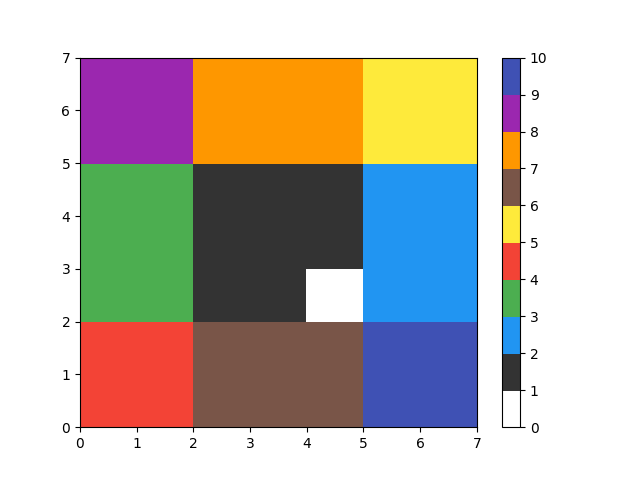
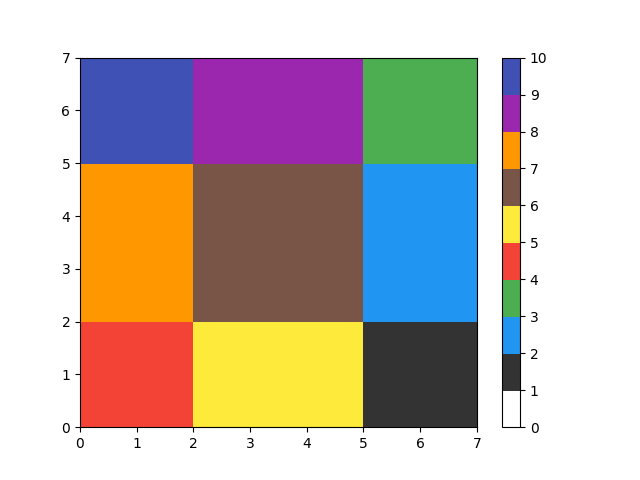
Agrega calculo de error de validation y parte del informe

diff --git a/informe/resultados.tex b/informe/resultados.tex
@@ -527,14 +527,66 @@ Si bien hay un idea de agrupamiento no es lo que esperábamos, por lo cual decid
 
 \begin{figure}[h]
   \begin{center}
-    \includegraphics[scale=0.4]{../img/map_1000ep_850en.png}
+    \includegraphics[scale=0.4]{../img/map_1000ep_850en_v2.png}
   \caption{Mapa 10x10 - 850 ejes x neurona - 1000 épocas - Sigma 5 - Entrenamiento}
   \end{center}
 \end{figure}
 
 Sin embargo, encontramos muy extraño que haya tantos blancos en el mapa, que significa que esas neuronas que están blancas no fueron activadas por ningún documento cuando realizamos la última pasada de los documentos sobre la red entrenada para armar el mapa. Esto nos desconcertó de si era correcto o no, con lo cual recurrimos a consultarlo con los profesores, lo que nos permitió entender que esto no debería suceder y que las posibles causas podían ser que nuestro mapa era demasiado grande, o que teníamos algún problema en la función de vecindad y/o las fases de ordenamiento y convergencia y/o nuestro código en sí.
 
-Luego de revisar nuestra implementación, descubrimos que las fases de ordenamiento y convergencia no estaban muy bien definidas y que durante todas las épocas tanto el sigma como el eta no dejaban de ser \textit{enfriados}. Es por eso que decidimos plantear que de las 1000 épocas, dos tercios de las mismas sean de ordenamiento y el resto de convergencia. Además, decidimos achicar el área de nuestro mapa de neuronas de 10x10 a 8x8 y volvimos a correr el experimento.
+Luego de revisar nuestra implementación, descubrimos que las fases de ordenamiento y convergencia no estaban muy bien definidas y que durante todas las épocas tanto el sigma como el eta no dejaban de ser \textit{enfriados}. Es por eso que decidimos plantear que de las 1000 épocas, dos tercios de las mismas sean de ordenamiento y el resto de convergencia. Además, decidimos achicar el área de nuestro mapa de neuronas de 10x10 a 8x8 y volvimos a correr el experimento con sigma 5 y con sigma 8.
+
+\begin{figure}[!htbp]
+\centering
+\begin{subfigure}{.5\textwidth}
+  \centering
+  \includegraphics[width=1\linewidth, scale=1]{../img/map8x8_1000ep_850en.png}
+  \caption{Mapa 8x8 - 850 ejes x neurona - 1000 épocas - Sigma 5 - Entrenamiento}
+  \label{fig:sub1}
+\end{subfigure}%
+\begin{subfigure}{.5\textwidth}
+  \centering
+  \includegraphics[width=1\linewidth, scale=1]{../img/map8x8_1000ep_850en_sigma8.png}
+  \caption{Mapa 8x8 - 850 ejes x neurona - 1000 épocas - Sigma 8 - Entrenamiento}
+  \label{fig:sub2}
+\end{subfigure}
+\end{figure}
+
+Con los resultados podemos ver que la presencia de blancos disminuyo ligeramente pero siguen presentes, incluso aún no tenemos una clusterización perfecta que es lo que queremos lograr. Debido a que no estamos conformes con éstos resultados, decidimos ahora modificar la duración de las fases de ordenamiento y convergencia. Recordemos que hasta éste momento estábamos utilizando 2 tercios de la 1000 épocas para el ordenamiento y el tercio restante para convergencia (~333 épocas para convergencia). Ahora, en vez de eso, haremos pruebas con 1 medio (500 épocas) y 1 cuarto (250 épocas) para convergencia.
+
+\begin{figure}[!htbp]
+\centering
+\begin{subfigure}{.5\textwidth}
+  \centering
+  \includegraphics[width=1\linewidth, scale=1]{../img/map8x8_1000ep_850en_sigma8_faseord500.png}
+  \caption{Mapa 8x8 - 850 ejes x neurona - 1000 épocas (500 ord/500 conv) - Sigma 8 - Entrenamiento}
+  \label{fig:sub1}
+\end{subfigure}%
+\begin{subfigure}{.5\textwidth}
+  \centering
+  \includegraphics[width=1\linewidth, scale=1]{../img/map8x8_1000ep_850en_sigma8_faseord750.png}
+  \caption{Mapa 8x8 - 850 ejes x neurona - 1000 épocas (750 ord/250 conv) - Sigma 8 - Entrenamiento}
+  \label{fig:sub2}
+\end{subfigure}
+\end{figure}
+
+Como se puede apreciar, el problema de clusterización se resuelve en su totalidad utilizando 750 épocas para el ordenamiento y 250 para la convergencia. Por otro lado, el problema de los blancos sigue presente, lo cual nos lleva nuevamente a replantear nuestros parámetros para eliminar este comportamiento en su totalidad. Es por eso que decidimos utilizar un mapa de neuronas más pequeño, de 7x7 en vez de 8x8. 
+
+\begin{figure}[h]
+  \begin{center}
+    \includegraphics[scale=0.4]{../img/map7x7_1000ep_850en_sigma7_faseord750.png}
+  \caption{Mapa 7x7 - 850 ejes x neurona - 1000 épocas (750 ord/250 conv) - Sigma 7 - Entrenamiento}
+  \end{center}
+\end{figure}
+
+Ahora sí, en este experimento conseguimos los resultados esperados, con lo cual confirmamos que nuestro problema era que el mapa de neuronas estaba demasiado grande. Un detalle importante es que luego de realizar este experimento nos dimos cuenta que las categorías 8 y 9 estaban siendo coloreadas de la misma manera, con lo cual tuvimos que ajustar el mapa para que salga correctamente.
+
+\begin{figure}[h]
+  \begin{center}
+    \includegraphics[scale=0.4]{../img/map7x7_1000ep_850en_sigma7_faseord750_corregido.png}
+  \caption{Mapa 7x7 - 850 ejes x neurona - 1000 épocas (750 ord/250 conv) - Sigma 7 - Entrenamiento}
+  \end{center}
+\end{figure}
 
 \newpage
 \section{Soluciones Óptimas Propuestas}

diff --git a/script_map.py b/script_map.py
@@ -52,15 +52,16 @@ dataset_validation = matrix[int(len(matrix) * 0.9):]
 n_entrada = len(atributos[0])
 map_size = 7
 sigma = 7
+longer_width = 0
 
-SOM = som.SelfOrganizedMap(n_entrada, map_size)
+SOM = som.SelfOrganizedMap(n_entrada, map_size, offset_width_map=longer_width)
 
 if filepath == "sanger_network.data":
     coordenadas = SOM.translate_documentos_to_coordenadas(dataset_train, filepath)    
-    SOM.train_con_documentos(coordenadas, categorias_verificacion, sigma=sigma, epochs=epochs)
+    SOM.train_con_documentos(coordenadas, sigma=sigma, epochs=epochs)
     resultados = SOM.predict(coordenadas, categorias_verificacion)
 else:
-    SOM.train_con_documentos(dataset_train, categorias_verificacion, sigma=sigma, epochs=epochs)
+    SOM.train_con_documentos(dataset_train, sigma=sigma, epochs=epochs)
     resultados = SOM.predict(dataset_train, categorias_verificacion)
 
 
@@ -85,48 +86,42 @@ bounds = range(11)
 norm = colors.BoundaryNorm(bounds, cmap.N)
 
 column_labels = range(map_size)
-row_labels = range(map_size)
+row_labels = range(map_size+longer_width)
 heatmap = plt.pcolor(resultados, cmap=cmap, norm=norm)
 heatmap.axes.set_xticklabels = column_labels
 heatmap.axes.set_yticklabels = row_labels
-plt.colorbar(heatmap, ticks=range(11))
+m = plt.colorbar(heatmap, ticks=range(11))
+
+# plt.show()
+
+######### CALCULO DEL ERROR CON VALIDACION ###########
+
+if filepath == "sanger_network.data":
+    resultados_validation = SOM.predict(coordenadas, categorias_verificacion, len(matrix) * 0.9)
+else:
+    resultados_validation = SOM.predict(dataset_validation, categorias_verificacion, int(len(matrix) * 0.9))
+
+errores_x_categoria = [(x+1, 0) for x in range(9)]
+
+print errores_x_categoria
+
+for i, row in enumerate(resultados_validation):
+    for j, _ in enumerate(row):
+        if resultados[i][j] != resultados_validation[i][j]:
+            errores_x_categoria[resultados[i][j] - 1] = (errores_x_categoria[resultados[i][j] - 1][0], errores_x_categoria[resultados[i][j] - 1][1] + 1)
+
+fig = plt.figure()
+chart_bar = fig.add_subplot(111)
+
+y = [q[1] for q in errores_x_categoria]
+x = [q[0] for q in errores_x_categoria]
+width = 1/1.5
+chart_bar.bar(x, y, width, color=(63.0/256.0, 81.0/256.0, 181.0/256.0, 1))
+
+
+# print resultados
+# print '---------------'
+# print resultados_validation
+# print errores_x_categoria
 
 plt.show()
-
-# coordenadas = []
-
-# for documento in dataset_train:
-#     coordenadas.append(PPN.predict_coordenadas_ej1(documento))
-
-# fig = plt.figure()
-# ax = fig.add_subplot(111, projection='3d')
-# ax.scatter(
-#     [vector[0] for vector in coordenadas], 
-#     [vector[1] for vector in coordenadas], 
-#     [vector[2] for vector in coordenadas], 
-#     c=categorias_verificacion[:int(len(categorias_verificacion) * 0.9)]
-# )
-
-# plt.show()
-
-# # Para datos de validacion
-
-# coordenadas = []
-
-# for documento in dataset_validation:
-#     coordenadas.append(PPN.predict_coordenadas_ej1(documento))
-
-# fig = plt.figure()
-# ax = fig.add_subplot(111, projection='3d')
-# ax.scatter(
-#     [vector[0] for vector in coordenadas], 
-#     [vector[1] for vector in coordenadas], 
-#     [vector[2] for vector in coordenadas], 
-#     c=categorias_verificacion[int(len(categorias_verificacion) * 0.9):]
-# )
-
-# plt.show()
-
-# ######## OUTPUT A JSON ##############
-# if red_hacia_archivo:
-#     encoder.to_json(red_hacia_archivo, PPN)

diff --git a/self_organized_map.py b/self_organized_map.py
@@ -1,17 +1,17 @@
 # -*- coding: utf-8 -*-
+from math import e, log
 import numpy as np
-from math import e, sqrt, pi, log
 import encoder as encoder
 
 class SelfOrganizedMap(object):
 
-    def __init__(self, n_entrada, map_size):
+    def __init__(self, n_entrada, map_size, offset_width_map=0):
         matrix = []
 
         for _ in range(map_size):
             row = []
             
-            for _ in range(map_size):
+            for _ in range(map_size+offset_width_map):
                 row.append({'pesos': np.random.uniform(-0.1, 0.1, n_entrada)})
 
             matrix.append(row)
@@ -27,7 +27,7 @@ class SelfOrganizedMap(object):
 
         return coordenadas
 
-    def train_con_documentos(self, documentos, categorias, sigma=5, eta=0.1, epochs=10):
+    def train_con_documentos(self, documentos, sigma=5, eta=0.1, epochs=10):
         iteration = 0.0
         sigma_0 = sigma
         eta_0 = eta
@@ -68,13 +68,13 @@ class SelfOrganizedMap(object):
 
         return self
 
-    def predict(self, documentos, categorias):
+    def predict(self, documentos, categorias, offset=0):
         resultados = []
 
-        for r1 in range(len(self.map)):
+        for r1, row in enumerate(self.map):
             resultados.append([])
 
-            for _ in range(len(self.map)):
+            for _ in enumerate(row):
                 resultados[r1].append([])
 
         for k, documento in enumerate(documentos):
@@ -91,7 +91,7 @@ class SelfOrganizedMap(object):
                         min_distancia = distancia
                         winner_index = np.array([i, j])
 
-            resultados[winner_index[0]][winner_index[1]].append(categorias[k])
+            resultados[winner_index[0]][winner_index[1]].append(categorias[k+offset])
 
         return self.determinar_categoria_ganadora(resultados)
 
